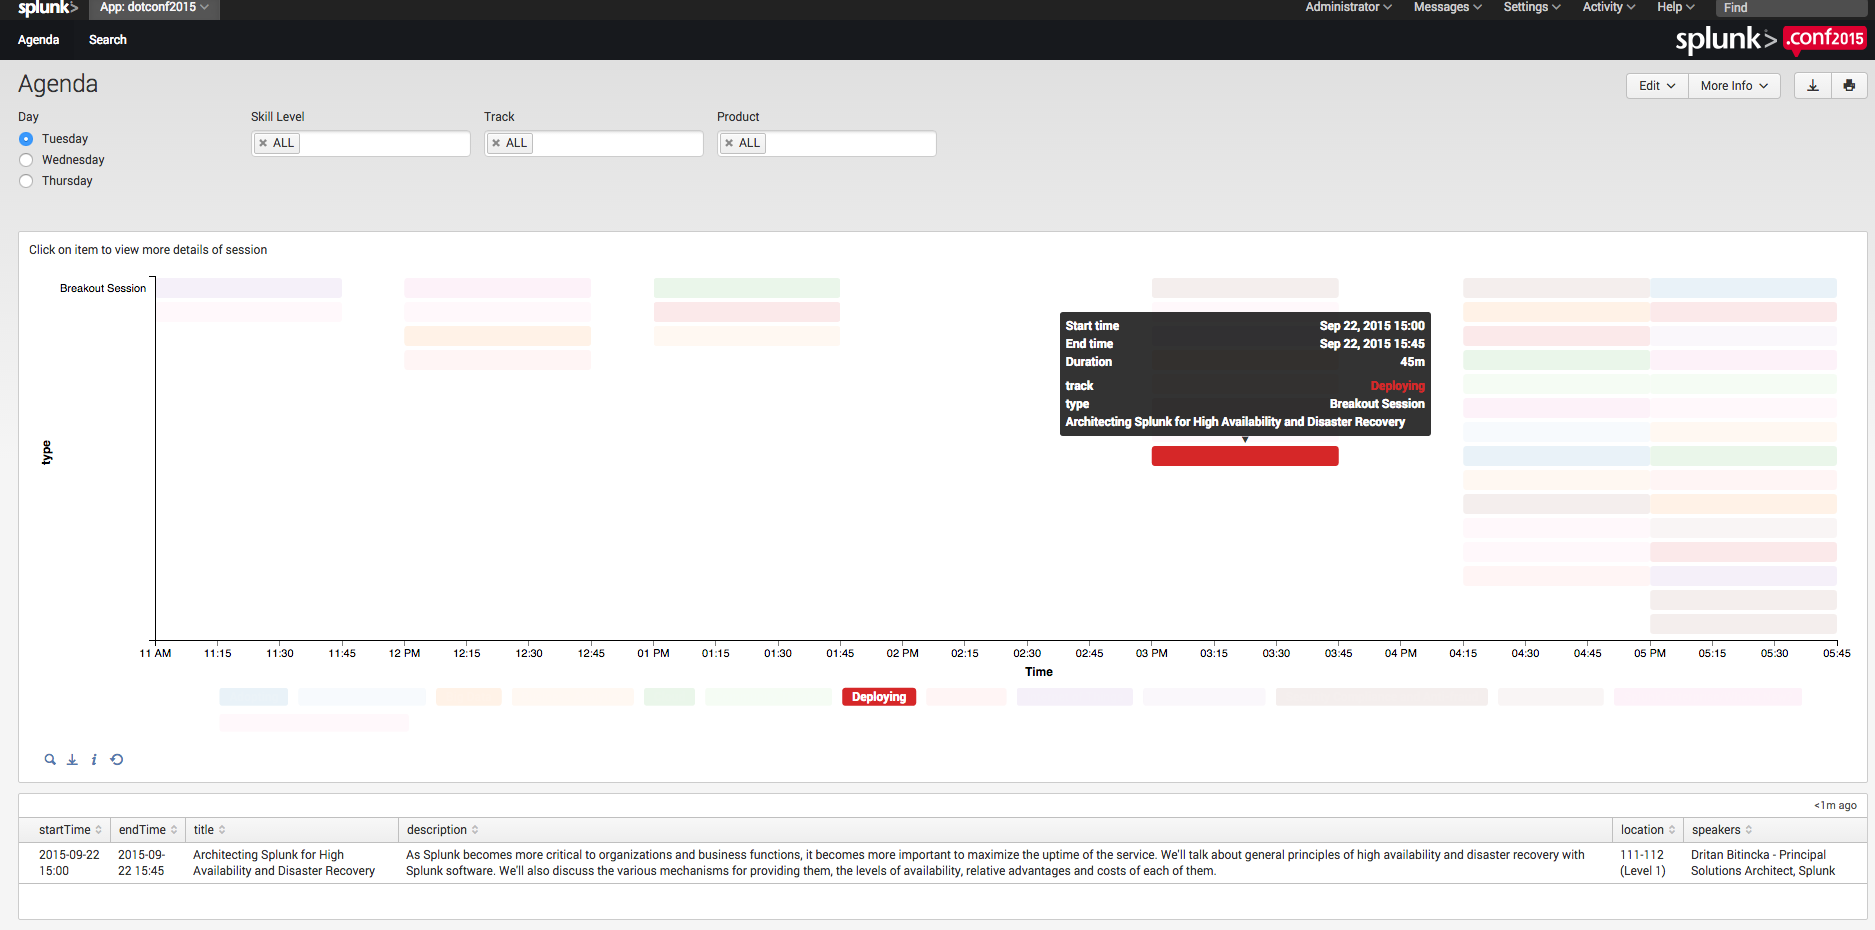
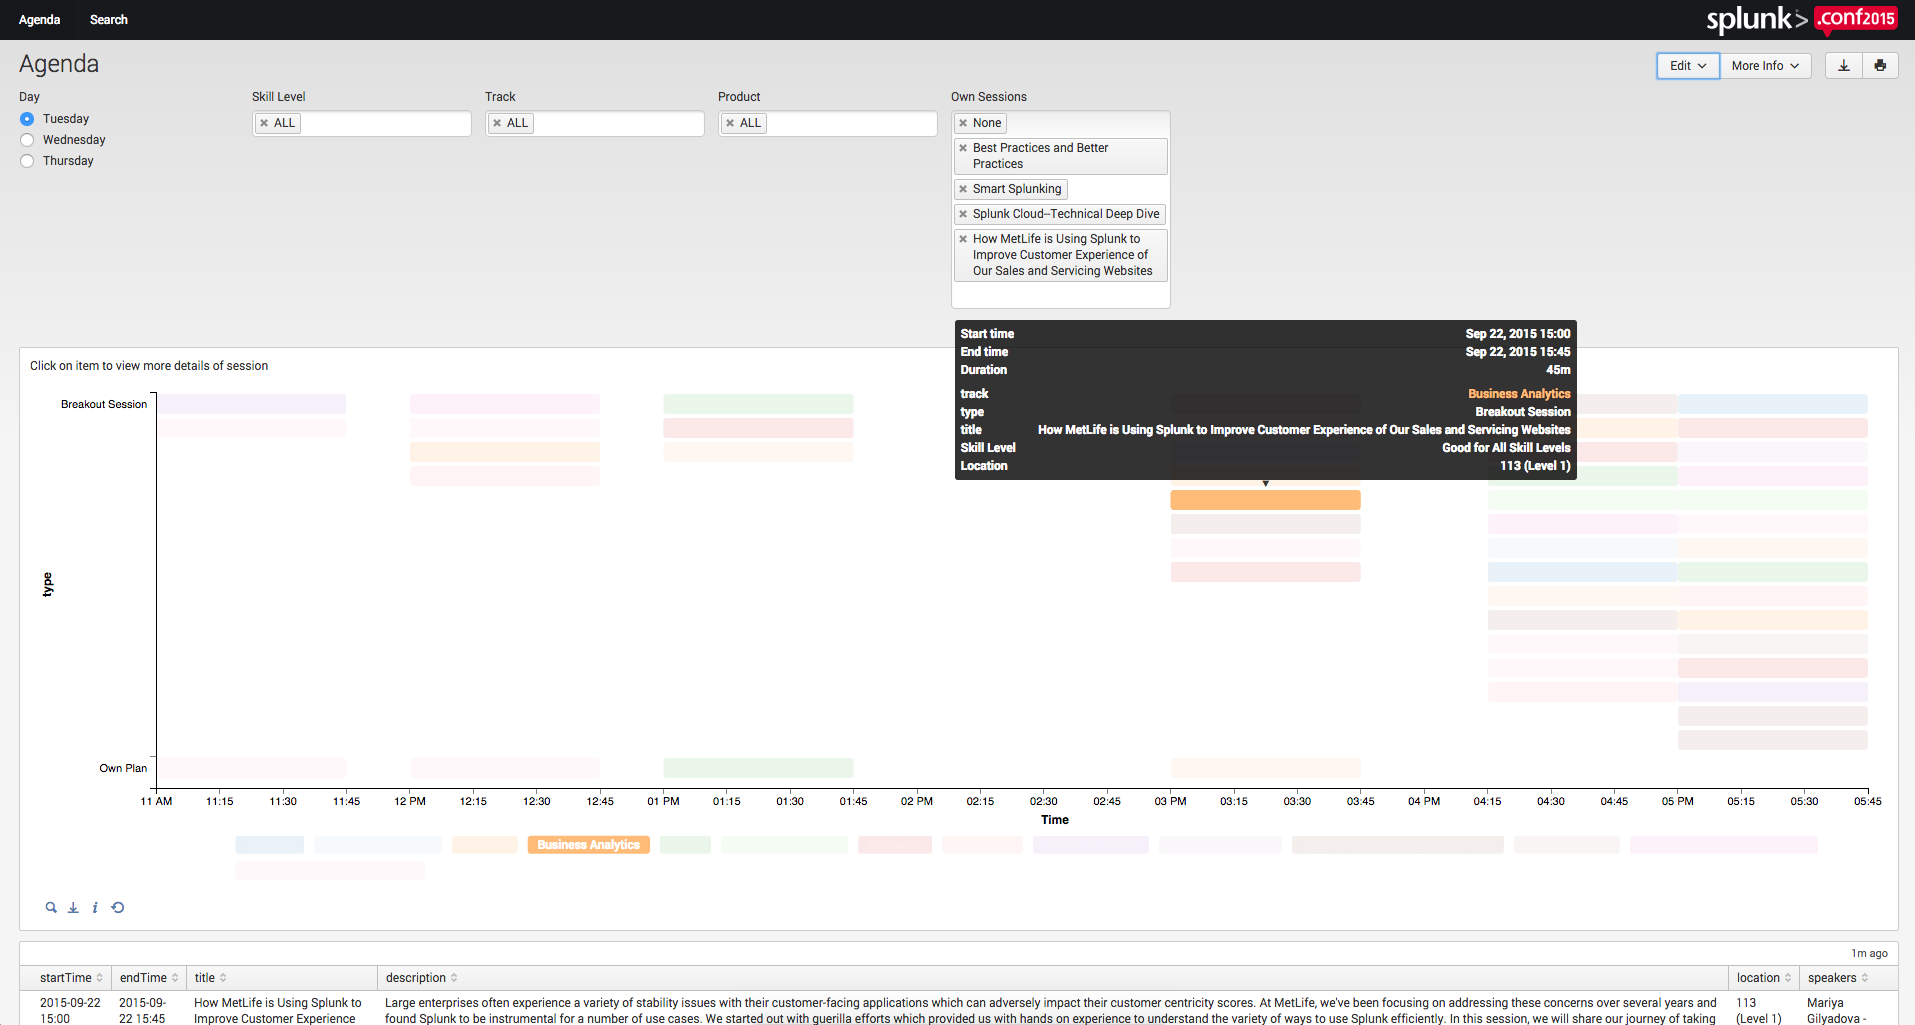
Added session Planning / Updated Screenshots

diff --git a/README.md b/README.md
@@ -6,6 +6,6 @@ I got the dataset using a combination of https://conf.splunk.com/speakers.html a
 
 ###screenshots
 ![Screenshot 1](https://raw.githubusercontent.com/stash1001/dotconf2015/master/appserver/static/Screenshot1.png "Screenshot 1")
-![Screenshot 2](https://raw.githubusercontent.com/stash1001/dotconf2015/master/appserver/static/screenshot2.png "Screenshot 2")
+![Screenshot 2](https://raw.githubusercontent.com/stash1001/dotconf2015/master/appserver/static/Screenshot2.png "Screenshot 2")
 
 Credits go to Alex Iribarren for creating the Ganntt Chart which can be found here https://splunkbase.splunk.com/app/1741/ 
